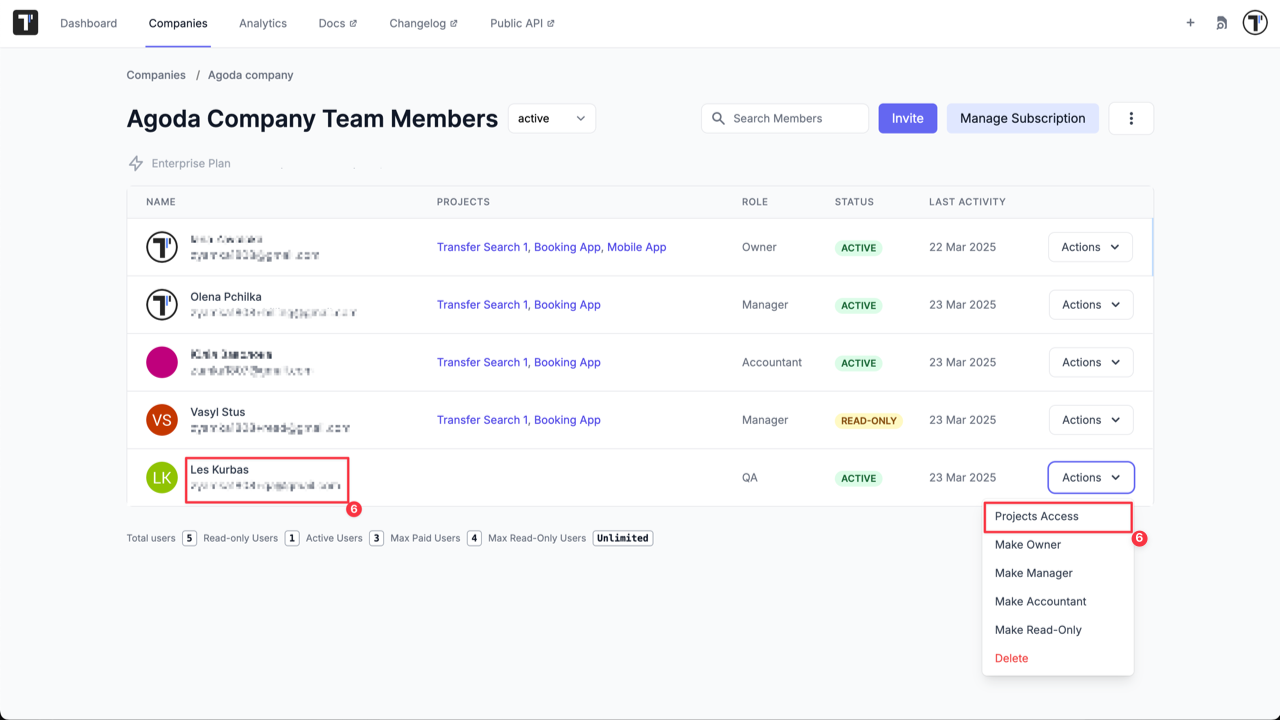
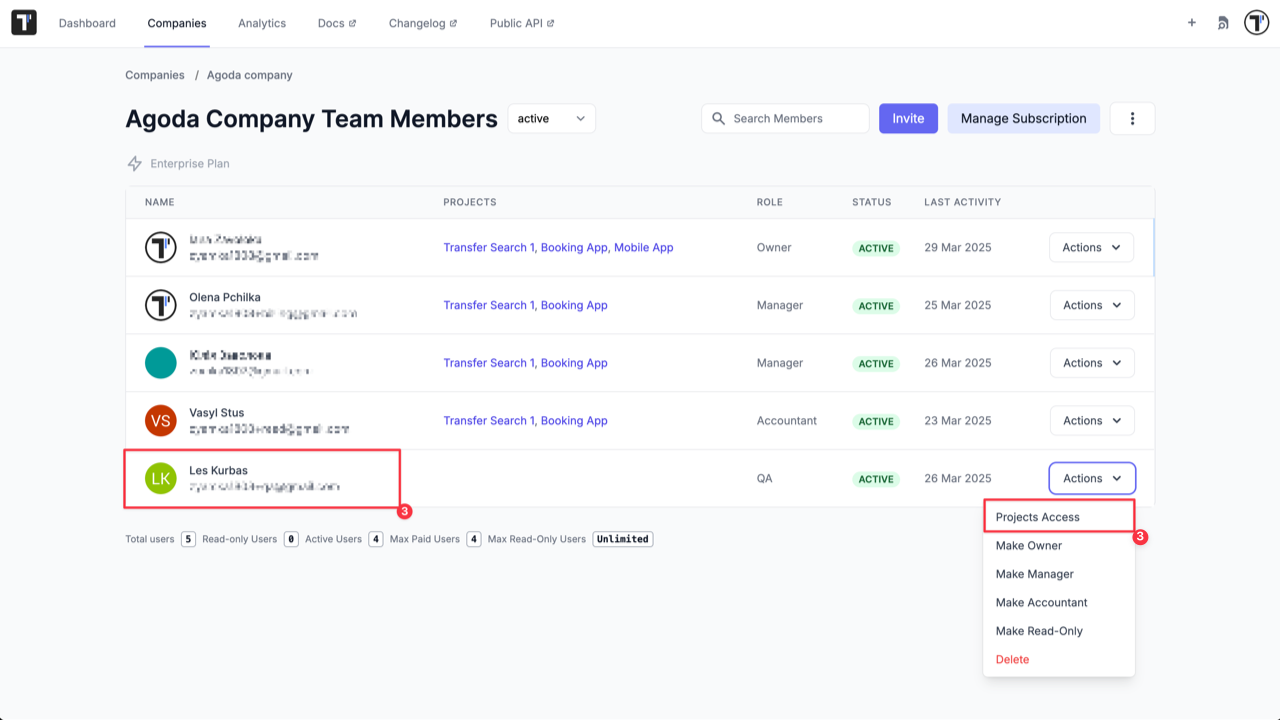
How to add user from Company and Project Settings

diff --git a/src/content/docs/management/company/users-and-permissions.md b/src/content/docs/management/company/users-and-permissions.md
@@ -70,7 +70,7 @@ Follow these steps to invite users to your company:
 
 ![Testomatio - Invite_users](./images/Invite_users_n.png)
 
-3. Enter user's mail (or a few, if needed).
+3. Enter user's mail (to invite multiple users, use a comma as a separator and enter the users' emails that you need).
 
 ![Testomatio - Invite_users](./images/Invite_users_2n.png)
 
@@ -80,21 +80,61 @@ Follow these steps to invite users to your company:
 
 ![Testomatio - Invite_users](./images/Invite_users_3n.png)
 
-6. Click on 'Actions' button and pick 'Projects Access' option or click on member's name.
+After the users are added to a Company you can add them to your Project.
+
+## How to Add a User to a Project
+
+There are two ways to add a user to a Project: from the **Company Settings** or directly from the **Project Settings**.
+
+### How to Add a User to a Project from the Company Settings
+
+1. Go to the ‘Companies’ page.
+2. Select Company.
+
+![Testomat.io - Company](./images/Team_1n.png)
+
+3. Click on ‘Actions’ button and pick ‘Projects Access’ option or click on member’s name.
 
 ![Testomatio - Invite_users](./images/Invite_users_4n.png)
 
-7. Choose the project via 'Add to Project' button or add to all projects with one click via 'Add to All Projects' button.
+4. Choose the project via ‘Add to Project’ button or add to all projects with one click via ‘Add to All Projects’ button.
 
 ![Testomatio - Invite_users](./images/Invite_users_5n.png)
 
-8. See that member was successfully added to projects and click 'Back' button.
+5. See that a member was successfully added to projects and click ‘Back’ button.
 
-![Testomatio - Invite_users](./images/Invite_users_6n.png)
+![Testomatio - Invite_users](./images/Invite_users_6n_.png)
 
-9. See that projects appeared in added member's line.
+6. See that projects appeared in added member’s line.
 
 ![Testomatio - Invite_users](./images/Invite_users_7n.png)
+
+### How to Add a User to a Project from the Project Settings
+
+1. Go to the ‘Dashboard’ page.
+2. Select Company and Project.
+
+![Testomat.io - Project](./images/User_1.png)
+
+3. Go to Settings-> Users.
+4. Click ‘Invite’ button.
+
+![Testomat.io - Project](./images/User_2.png)
+
+5. Choose a User from the dropdown list.
+6. Click ‘Send’ button.
+
+![Testomat.io - Project](./images/User_3.png)
+
+7. Invitation has been sent.
+
+![Testomat.io - Project](./images/User_4.png)
+
+:::note
+
+Only company members can be added to the Project via Project Settings.
+
+:::
 
 ## How to Manage Company Team Members
 
